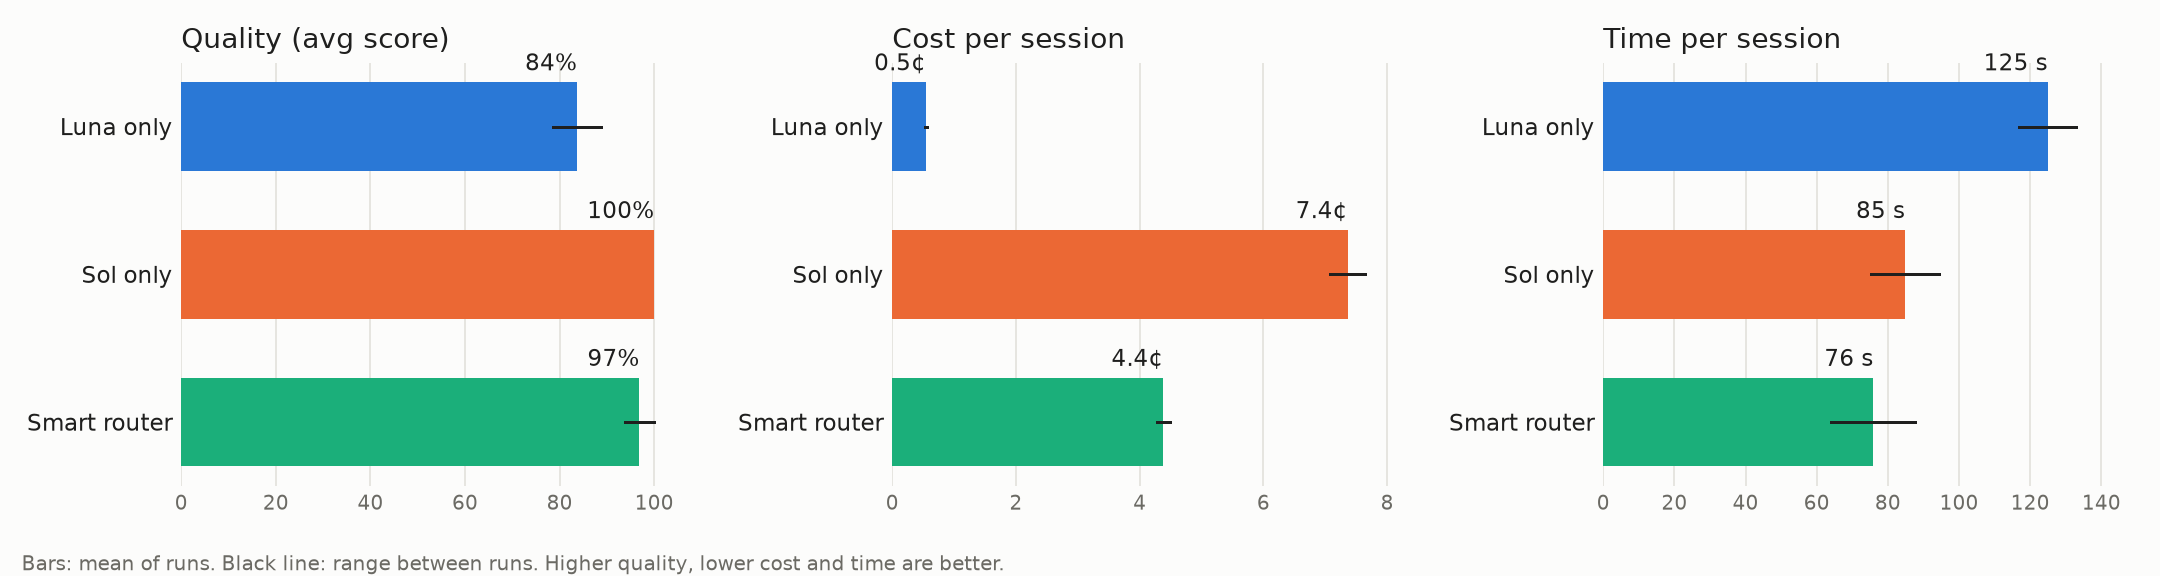
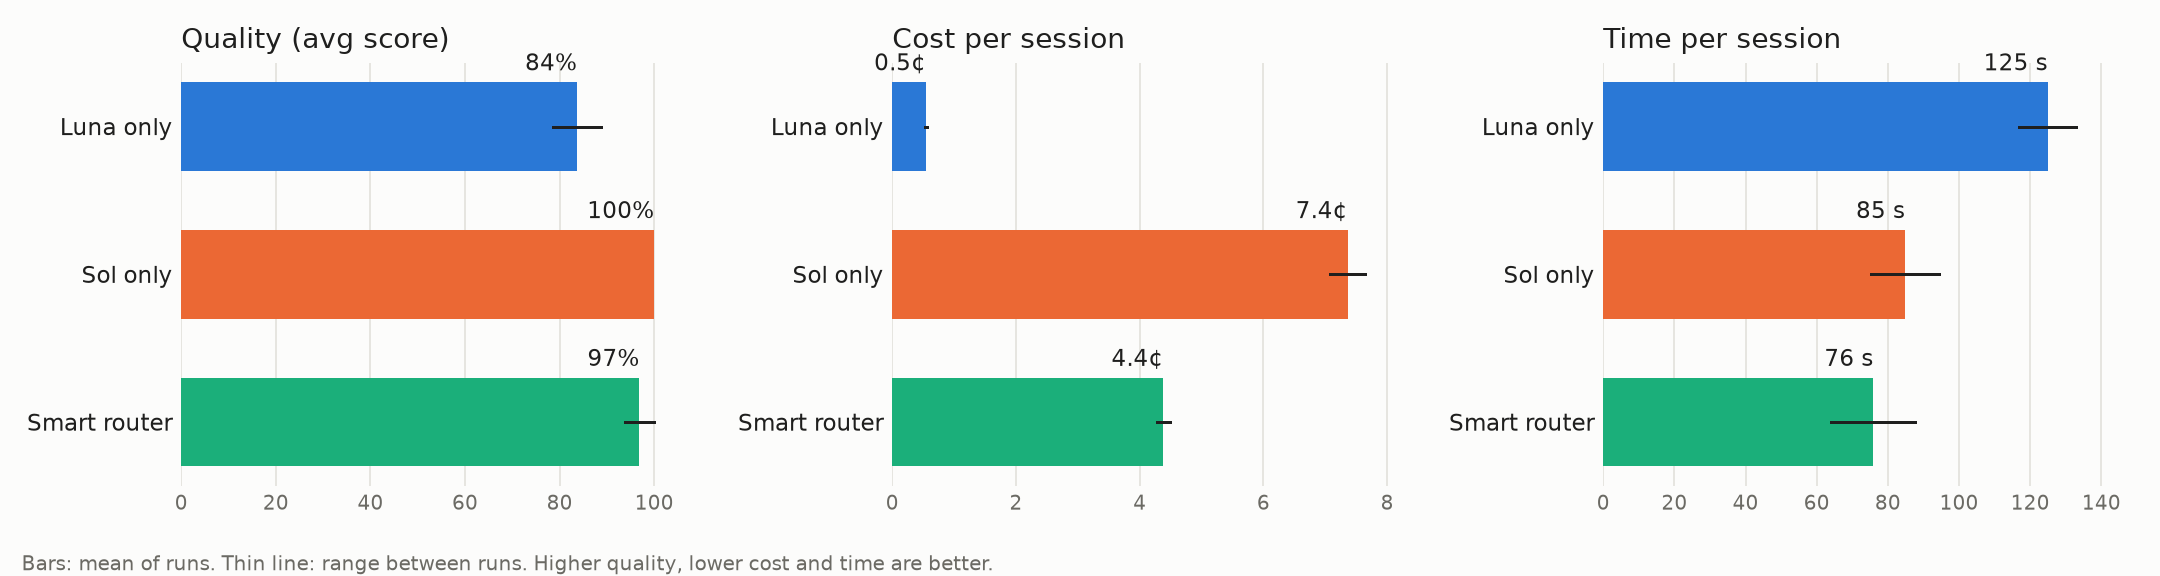
Add dark mode eval chart

Changed region(s): [[0.0931, 0.9688, 0.4653, 1.0]]

diff --git a/eval/report.py b/eval/report.py
@@ -11,7 +11,13 @@ from pathlib import Path
 from statistics import mean
 
 ROOT = Path(__file__).resolve().parents[1]
-MODES = [("luna", "Luna only", "#2a78d6"), ("sol", "Sol only", "#eb6834"), ("smart", "Smart router", "#1baf7a")]
+MODES = [("luna", "Luna only"), ("sol", "Sol only"), ("smart", "Smart router")]
+THEMES = {
+    "light": {"series": {"luna": "#2a78d6", "sol": "#eb6834", "smart": "#1baf7a"},
+              "ink": "#1f1f1e", "muted": "#6b6a64", "grid": "#e6e5e0", "surface": "#fcfcfb"},
+    "dark": {"series": {"luna": "#3987e5", "sol": "#d95926", "smart": "#199e70"},
+             "ink": "#f0efec", "muted": "#a3a29b", "grid": "#2c2c2a", "surface": "#0d1117"},
+}
 SCENARIOS = {
     "expense_audit": "Audit 36 expense receipts against a policy, then a follow-up question",
     "reconciliation": "Match bank transactions to 25 invoices, then list top debtors",
@@ -22,7 +28,6 @@ SCENARIOS = {
     "handbook": "Answer six questions from a company handbook",
     "triage": "Triage 24 emails by written rules, then a follow-up count",
 }
-INK, MUTED, GRID, SURFACE = "#1f1f1e", "#6b6a64", "#e6e5e0", "#fcfcfb"
 
 
 def load() -> dict:
@@ -38,7 +43,7 @@ def run_totals(rows: list[dict]) -> dict:
             "seconds": mean(r["seconds"] for r in rows)}
 
 
-def chart(summary: dict, path: Path) -> None:
+def chart(summary: dict, path: Path, theme: dict) -> None:
     import matplotlib
     matplotlib.use("Agg")
     import matplotlib.pyplot as plt
@@ -46,29 +51,35 @@ def chart(summary: dict, path: Path) -> None:
     metrics = [("score", "Quality (avg score)", lambda v: v * 100, "{:.0f}%"),
                ("usd", "Cost per session", lambda v: v * 100, "{:.1f}¢"),
                ("seconds", "Time per session", lambda v: v, "{:.0f} s")]
-    fig, axes = plt.subplots(1, 3, figsize=(12, 3.2), dpi=180, facecolor=SURFACE)
-    labels = [label for _, label, _ in MODES][::-1]
+    ink, muted, grid, surface = theme["ink"], theme["muted"], theme["grid"], theme["surface"]
+    fig, axes = plt.subplots(1, 3, figsize=(12, 3.2), dpi=180, facecolor=surface)
+    labels = [label for _, label in MODES][::-1]
     for ax, (key, title, scale, fmt) in zip(axes, metrics):
-        ax.set_facecolor(SURFACE)
-        for y, (mode, _, color) in enumerate(MODES[::-1]):
+        ax.set_facecolor(surface)
+        for y, (mode, _) in enumerate(MODES[::-1]):
+            color = theme["series"][mode]
             values = [scale(run[key]) for run in summary[mode]["runs"]]
             value = mean(values)
             ax.barh(y, value, height=0.6, color=color, zorder=2)
             if len(values) > 1:
-                ax.plot([min(values), max(values)], [y, y], color=INK, linewidth=1.2, zorder=3)
-            ax.text(value, y + 0.42, fmt.format(value), color=INK, fontsize=9, ha="right", va="center")
-        ax.set_yticks(range(len(labels)), labels, fontsize=9, color=INK)
-        ax.set_title(title, color=INK, fontsize=11, loc="left")
-        ax.set_xlim(0, max(scale(run[key]) for m, _, _ in MODES for run in summary[m]["runs"]) * 1.12)
-        ax.grid(axis="x", color=GRID, linewidth=0.8, zorder=0)
-        ax.tick_params(axis="x", colors=MUTED, labelsize=8, length=0)
+                ax.plot([min(values), max(values)], [y, y], color=ink, linewidth=1.2, zorder=3)
+            ax.text(value, y + 0.42, fmt.format(value), color=ink, fontsize=9, ha="right", va="center")
+        ax.set_yticks(range(len(labels)), labels, fontsize=9, color=ink)
+        ax.set_title(title, color=ink, fontsize=11, loc="left")
+        ax.set_xlim(0, max(scale(run[key]) for m, _ in MODES for run in summary[m]["runs"]) * 1.12)
+        ax.grid(axis="x", color=grid, linewidth=0.8, zorder=0)
+        ax.tick_params(axis="x", colors=muted, labelsize=8, length=0)
         ax.tick_params(axis="y", length=0)
         for side in ax.spines.values():
             side.set_visible(False)
-    fig.text(0.01, 0.01, "Bars: mean of runs. Black line: range between runs. Higher quality, lower cost and time are better.",
-             color=MUTED, fontsize=8)
+    fig.text(0.01, 0.01, "Bars: mean of runs. Thin line: range between runs. Higher quality, lower cost and time are better.",
+             color=muted, fontsize=8)
     fig.tight_layout(rect=(0, 0.06, 1, 1))
-    fig.savefig(path, facecolor=SURFACE)
+    fig.savefig(path, facecolor=surface)
+
+
+PICTURE = ('<picture><source media="(prefers-color-scheme: dark)" srcset="{prefix}eval-dark.png">'
+           '<img alt="Quality, cost and time per session" src="{prefix}eval.png"></picture>')
 
 
 def pct(new: float, base: float) -> str:
@@ -81,21 +92,21 @@ def main() -> None:
     args = parser.parse_args()
     runs = load()
     summary = {}
-    for mode, _, _ in MODES:
+    for mode, _ in MODES:
         totals = [run_totals(rows) for rows in runs[mode]]
         summary[mode] = {"runs": totals, **{k: mean(t[k] for t in totals) for k in ("score", "usd", "seconds")}}
     smart, sol, luna = summary["smart"], summary["sol"], summary["luna"]
-    n_runs = min(len(runs[m]) for m, _, _ in MODES)
+    n_runs = min(len(runs[m]) for m, _ in MODES)
 
     lines = [
         "# Eval", "",
         f"**Smart router: {smart['score']:.0%} quality vs {sol['score']:.0%} for Sol only and {luna['score']:.0%} for "
         f"Luna only, at {pct(smart['usd'], sol['usd'])} cost and {pct(smart['seconds'], sol['seconds'])} time "
         "compared with Sol only.**", "",
-        "![Quality, cost and time per session](eval.png)", "",
+        PICTURE.format(prefix=""), "",
         "| Mode | Quality | Cost per session | Time per session |", "|---|---|---|---|",
     ]
-    for mode, label, _ in MODES:
+    for mode, label in MODES:
         s = summary[mode]
         lines.append(f"| {label} | {s['score']:.0%} | ${s['usd']:.3f} | {s['seconds']:.0f} s |")
     lines += [
@@ -112,14 +123,14 @@ def main() -> None:
         "## Per scenario", "",
         "| Scenario | Luna | Sol | Smart | Smart used |", "|---|---|---|---|---|",
     ]
-    by = {mode: defaultdict(list) for mode, _, _ in MODES}
-    for mode, _, _ in MODES:
+    by = {mode: defaultdict(list) for mode, _ in MODES}
+    for mode, _ in MODES:
         for rows in runs[mode]:
             for row in rows:
                 by[mode][row["id"]].append(row)
     for scenario, description in SCENARIOS.items():
         cells = []
-        for mode, _, _ in MODES:
+        for mode, _ in MODES:
             rows = by[mode][scenario]
             cells.append(f"{mean(r['score'] for r in rows):.0%} · ${mean(r['llm_usd'] + r['decisions_usd'] for r in rows):.3f}"
                          f" · {mean(r['seconds'] for r in rows):.0f} s")
@@ -130,7 +141,8 @@ def main() -> None:
               "Reproduce: `python3 eval/agentic/build.py`, then `eval/run.py --mode luna|sol|smart --out "
               "eval/results/<mode>-<run>.json` for each run, then `eval/report.py`.", ""]
     (ROOT / "docs").mkdir(exist_ok=True)
-    chart(summary, ROOT / "docs" / "eval.png")
+    chart(summary, ROOT / "docs" / "eval.png", THEMES["light"])
+    chart(summary, ROOT / "docs" / "eval-dark.png", THEMES["dark"])
     (ROOT / "docs" / "eval.md").write_text("\n".join(lines))
 
 

diff --git a/README.md b/README.md
@@ -66,7 +66,7 @@ Eight assistant scenarios on a real Hermes agent with terminal and file tools, t
 
 Compared with Sol only, the router was 40% cheaper and 10% faster, at nearly the same quality. Luna alone is the cheapest but the slowest, and it fails the hardest scenario: the receipt audit scored 19% on Luna and 100% with the router, which sent it to Sol.
 
-![Quality, cost and time per session](docs/eval.png)
+<picture><source media="(prefers-color-scheme: dark)" srcset="docs/eval-dark.png"><img alt="Quality, cost and time per session" src="docs/eval.png"></picture>
 
 ## Tests
 

diff --git a/docs/eval.md b/docs/eval.md
@@ -2,7 +2,7 @@
 
 **Smart router: 97% quality vs 100% for Sol only and 84% for Luna only, at -40% cost and -10% time compared with Sol only.**
 
-![Quality, cost and time per session](eval.png)
+<picture><source media="(prefers-color-scheme: dark)" srcset="eval-dark.png"><img alt="Quality, cost and time per session" src="eval.png"></picture>
 
 | Mode | Quality | Cost per session | Time per session |
 |---|---|---|---|
